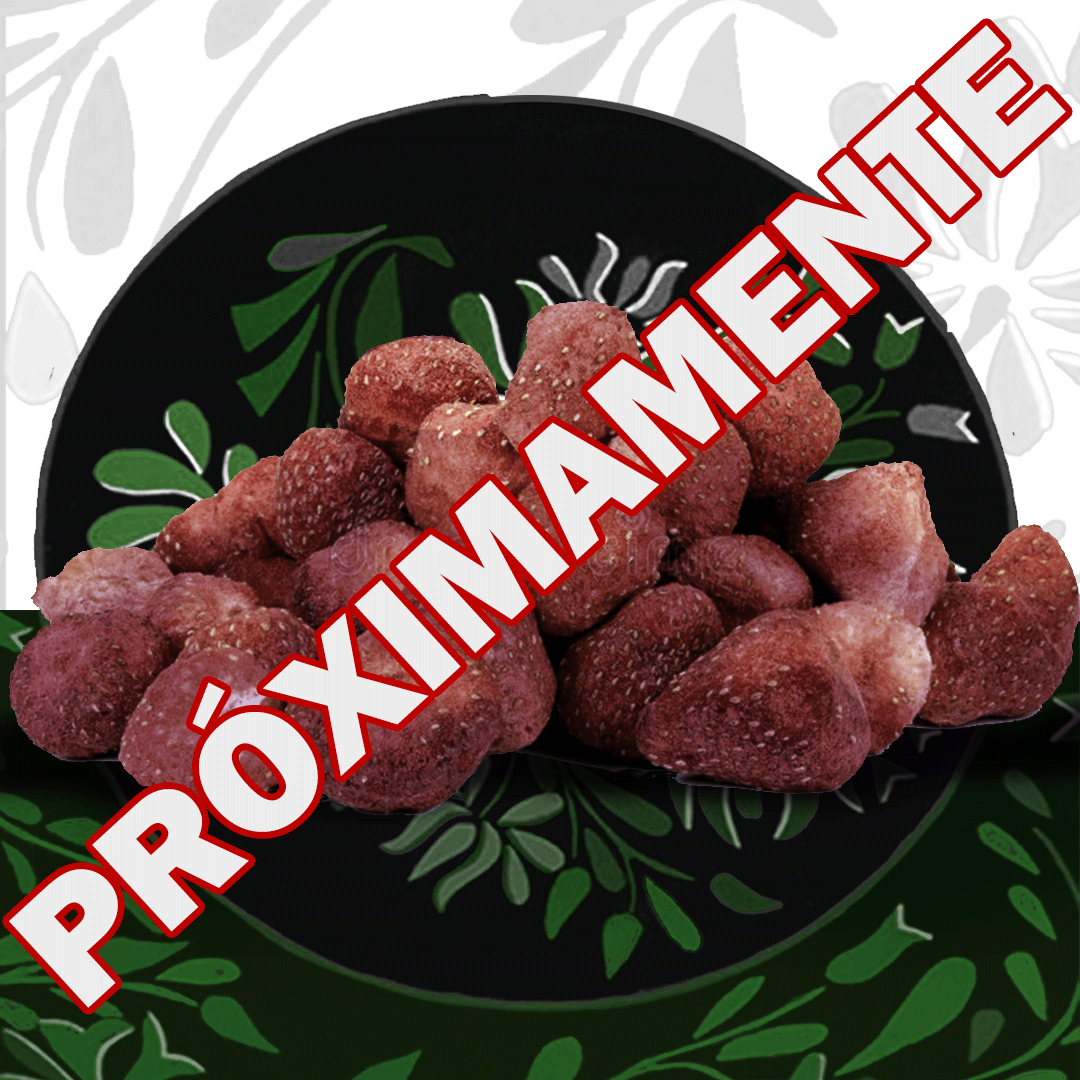
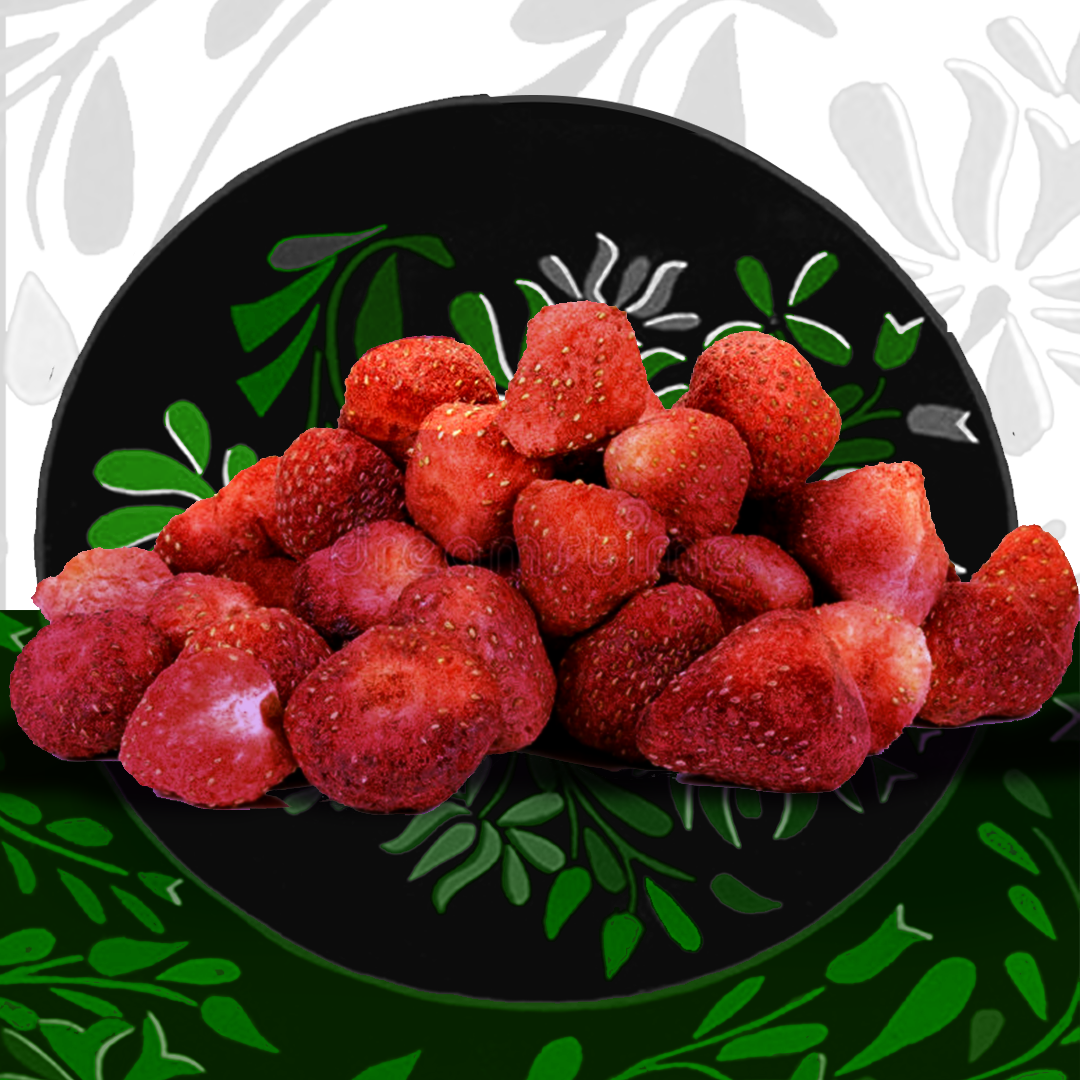
Se agregaron las cartas y se elimino el proximamente

diff --git a/productos.html b/productos.html
@@ -59,7 +59,7 @@
     <!-- Recetas arreglado -->
     <div class="container">
       <div class="row">
-        <div class="col-sm-12 col-md-6 col-lg-4 mt-5">
+        <div class="col-sm-12 col-md-6 col-lg-3 mt-5">
           <div class="card">
             <img src="img/Aguacard.png" class="card-img-top" alt="..." />
             <div class="card-body">
@@ -72,43 +72,56 @@
                 <ul class="list-unstyled">
                   <li>Liofilizado</li>
                   <li>1.4 oz (40g)</li>
-                  <li>Aguacate 100% Michoacano</li>
                 </ul>
               </div>
             </div>
           </div>
         </div>
-        <div class="col-sm-12 col-md-6 col-lg-4 mt-5">
+        <div class="col-sm-12 col-md-6 col-lg-3 mt-5">
           <div class="card">
-            <img src="img/fresa.png" class="card-img-top" alt="..." />
+            <img src="img/arandano.png" class="card-img-top" alt="..." />
             <div class="card-body">
               <div class="card-text">
                 <p>
                   <strong class="d-flex justify-content-center">
-                    Fresa
+                    Arandano
                   </strong>
                 </p>
                 <ul class="list-unstyled">
                   <li>Liofilizado</li>
                   <li>1.4 oz (40g)</li>
-                  <li>Proximamente</li>
                 </ul>
               </div>
             </div>
           </div>
         </div>
-        <div class="col-sm-12 col-md-6 col-lg-4 mt-5 mb-5">
+        <div class="col-sm-12 col-md-6 col-lg-3 mt-5 mb-5">
           <div class="card">
-            <img src="img/mango.png" class="card-img-top" alt="..." />
+            <img src="img/fresa.png" class="card-img-top" alt="..." />
             <div class="card-body">
               <div class="card-text">
                 <p>
-                  <strong class="d-flex justify-content-center"> Mango </strong>
+                  <strong class="d-flex justify-content-center"> Fresa </strong>
                 </p>
                 <ul class="list-unstyled">
                   <li>Liofilizado</li>
                   <li>1.4 oz (40g)</li>
-                  <li>Proximamente</li>
+                </ul>
+              </div>
+            </div>
+          </div>
+        </div>
+        <div class="col-sm-12 col-md-6 col-lg-3 mt-5 mb-5">
+          <div class="card">
+            <img src="img/platano.png" class="card-img-top" alt="..." />
+            <div class="card-body">
+              <div class="card-text">
+                <p>
+                  <strong class="d-flex justify-content-center"> Platano </strong>
+                </p>
+                <ul class="list-unstyled">
+                  <li>Liofilizado</li>
+                  <li>1.4 oz (40g)</li>
                 </ul>
               </div>
             </div>
